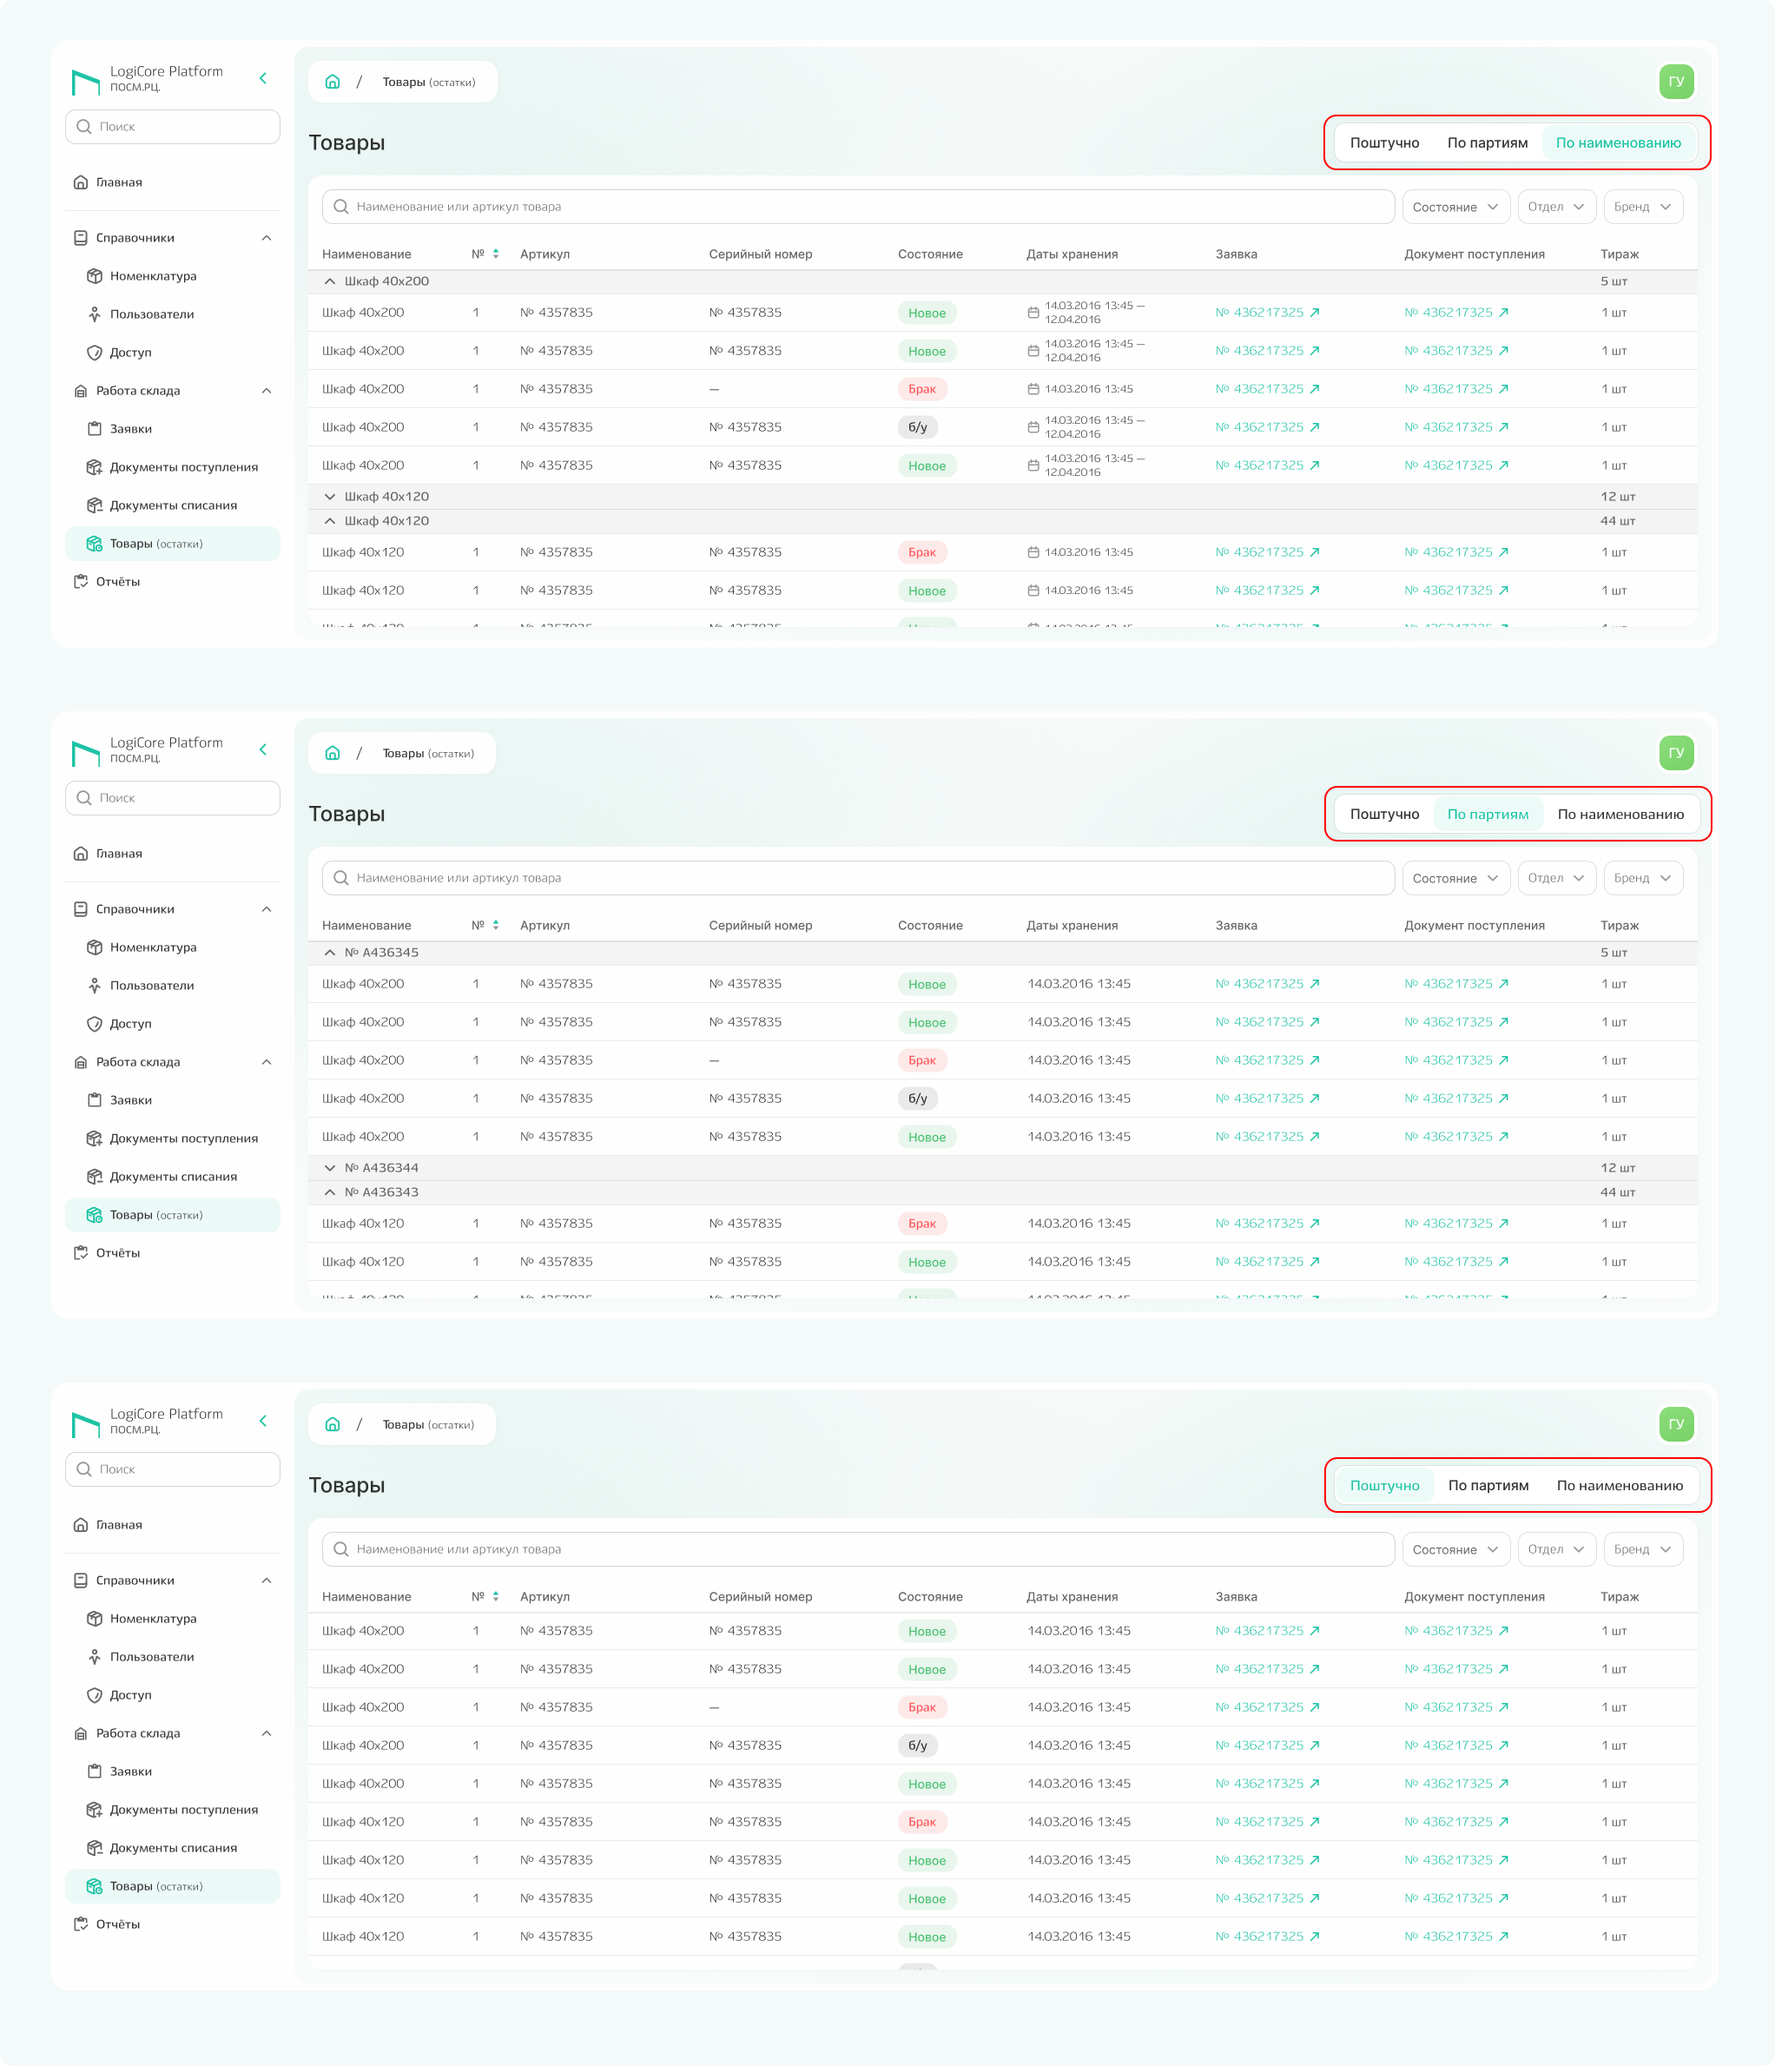
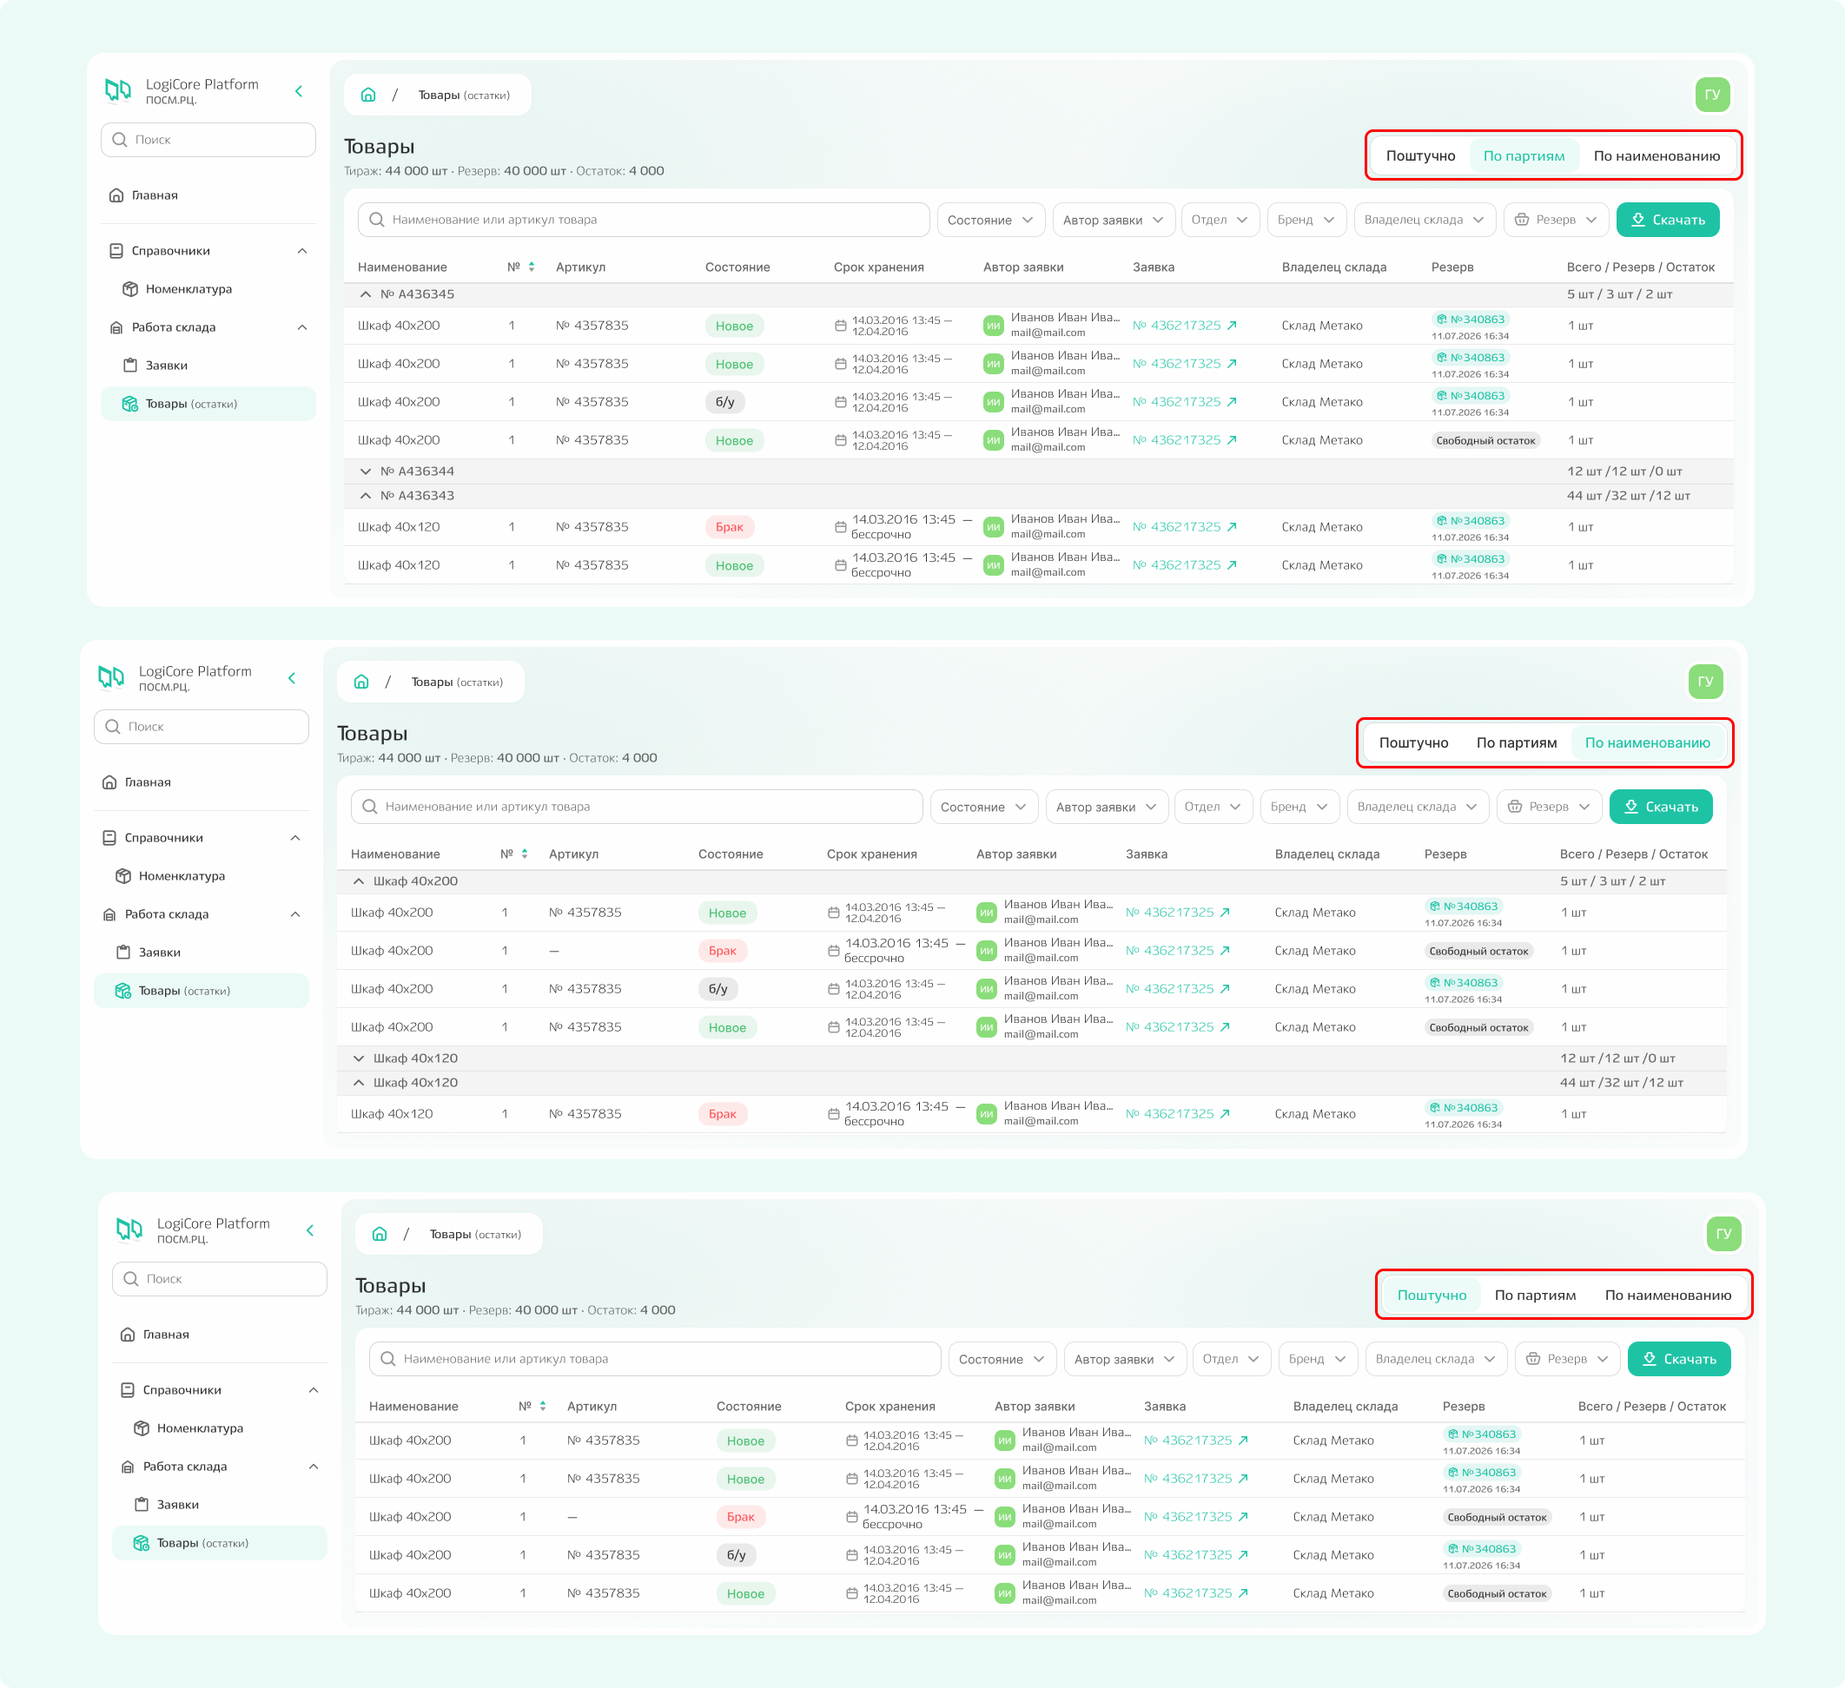
update goods

diff --git a/docs/ru/goods_acc_manager.md b/docs/ru/goods_acc_manager.md
@@ -1,15 +1,18 @@
 # Товары
 
-В подсистеме «Товары» отражены складские остатки. 
+**Подсистема «Товары» отображает актуальные складские остатки** по всем номенклатурам, которые в данный момент хранятся на складе.
 
 ![_modules_about](_images/goods_list_acc.png){.center width=1200}
 
-По каждому товару помимо наименования, артикула, серийного номера и состояния можно посмотреть информацию о:
-- резерве — зарезервирован ли товарный остаток для какой-то заявки/заказа или хранится без резерва («свободный остаток»);
-- сроке хранения;
-- номере заявки — при клике по номеру происходит переход к заявке, в рамках которой было поступление товара;
-- номере документа поступления — при клике по номеру также происходит переход к просмотру информации о документе, на основании которого товар учтён на складе; 
-- тираже — какое количество товара сейчас хранится на складе. 
+По каждому товару в списке доступна следующая информация:
+- наименование;
+- артикул;
+- состояние;
+- срок хранения;
+- автор заявки — сотрудник, создавший заявку, по которой товар поступил на склад;
+- номер заявки — при клике по нему осуществляется переход к соответствующей заявке;
+- резерв — указано, зарезервирован ли остаток для какой-либо заявки/заказа или хранится свободно («свободный остаток»);
+- резерв/остаток — количество товара на складе с разбивкой на свободный и зарезервированный объём.
 
 {% note warning %}
 
@@ -17,12 +20,23 @@
 
 {% endnote %}
 
-Можно найти конкретный товар по наименованию или артикулу с помощью поиска или воспользоваться фильтрами для сортировки информации. Все фильтры на странице равнозначны и могут применяться как по отдельности, так и в комбинации друг с другом.
+**Для быстрого поиска** конкретного товара используйте:
+- поисковую строку — введите наименование или артикул;
+- фильтры — для сортировки списка по различным критериям.
 
-При клике по строке открывается карточка товара со всей ранее указанной информацией.
+Все фильтры равнозначны и могут применяться как по отдельности, так и в комбинации друг с другом.
+
+При клике по строке с товаром открывается карточка с полной информацией о нём, включая все ранее внесённые данные.
 
 ![_modules_about](_images/goods_card.png){.center width=1200}
 
-Также можно настроить группировку товарных остатков по партиям, по наименованию и поштучно, в результате группировка в списке изменится. Чтобы выполнить эту настройку, необходимо выбрать соответствующий вариант группировки в правом верхнем углу. 
+Все остатки можно выгрузить в Excel-файл — нажмите кнопку «Скачать».
+
+![_screen_start_page](_images/goods_download.png){.center width=1200}
+
+Вы можете настроить отображение списка, выбрав один из вариантов группировки в правом верхнем углу страницы:
+- по партиям — товары группируются по партиям, в рамках которых они поставлялись;
+- по наименованию — товары с одинаковым наименованием объединяются в группы;
+- поштучно — отображение без группировки, полный список позиций.
 
 ![_screen_start_page](_images/goods.png){.center width=1200}
